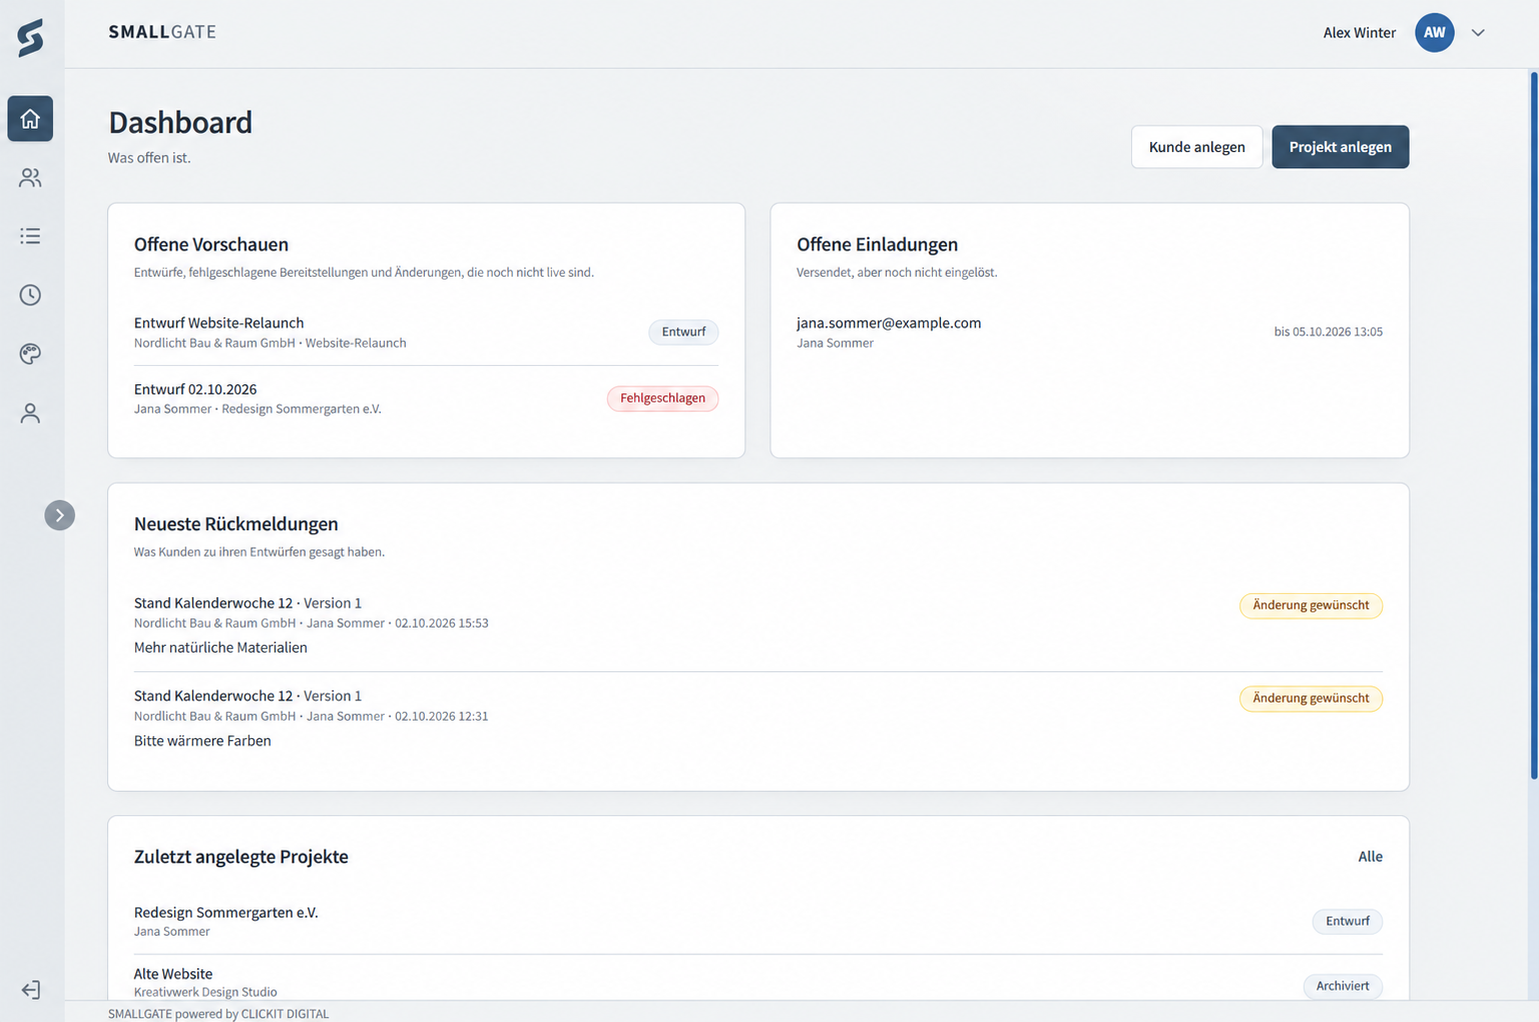
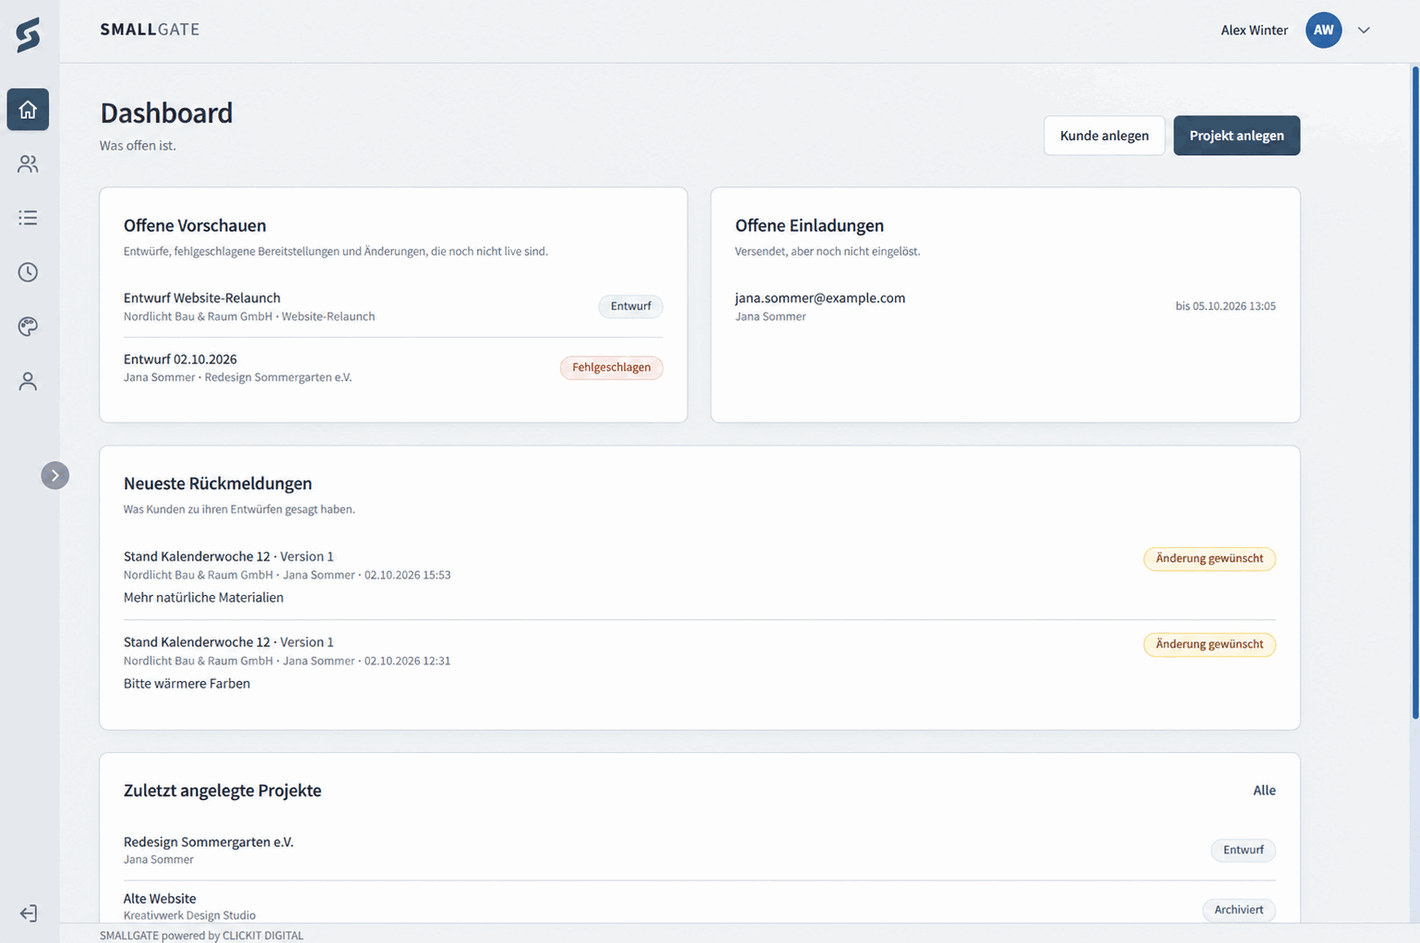
Update README to clarify that screenshots feature fictional customers

Changed region(s): [[0.7746, 0.123, 0.8056, 0.1538], [0.4028, 0.369, 0.4338, 0.3998]]

diff --git a/README.md b/README.md
@@ -20,7 +20,7 @@ where they already work.
 
 ## A short tour
 
-The interface is German; the screenshots show the demo data from the seeder.
+The interface is German; the customers in the screenshots are fictional.
 
 ### Sign-in
 
